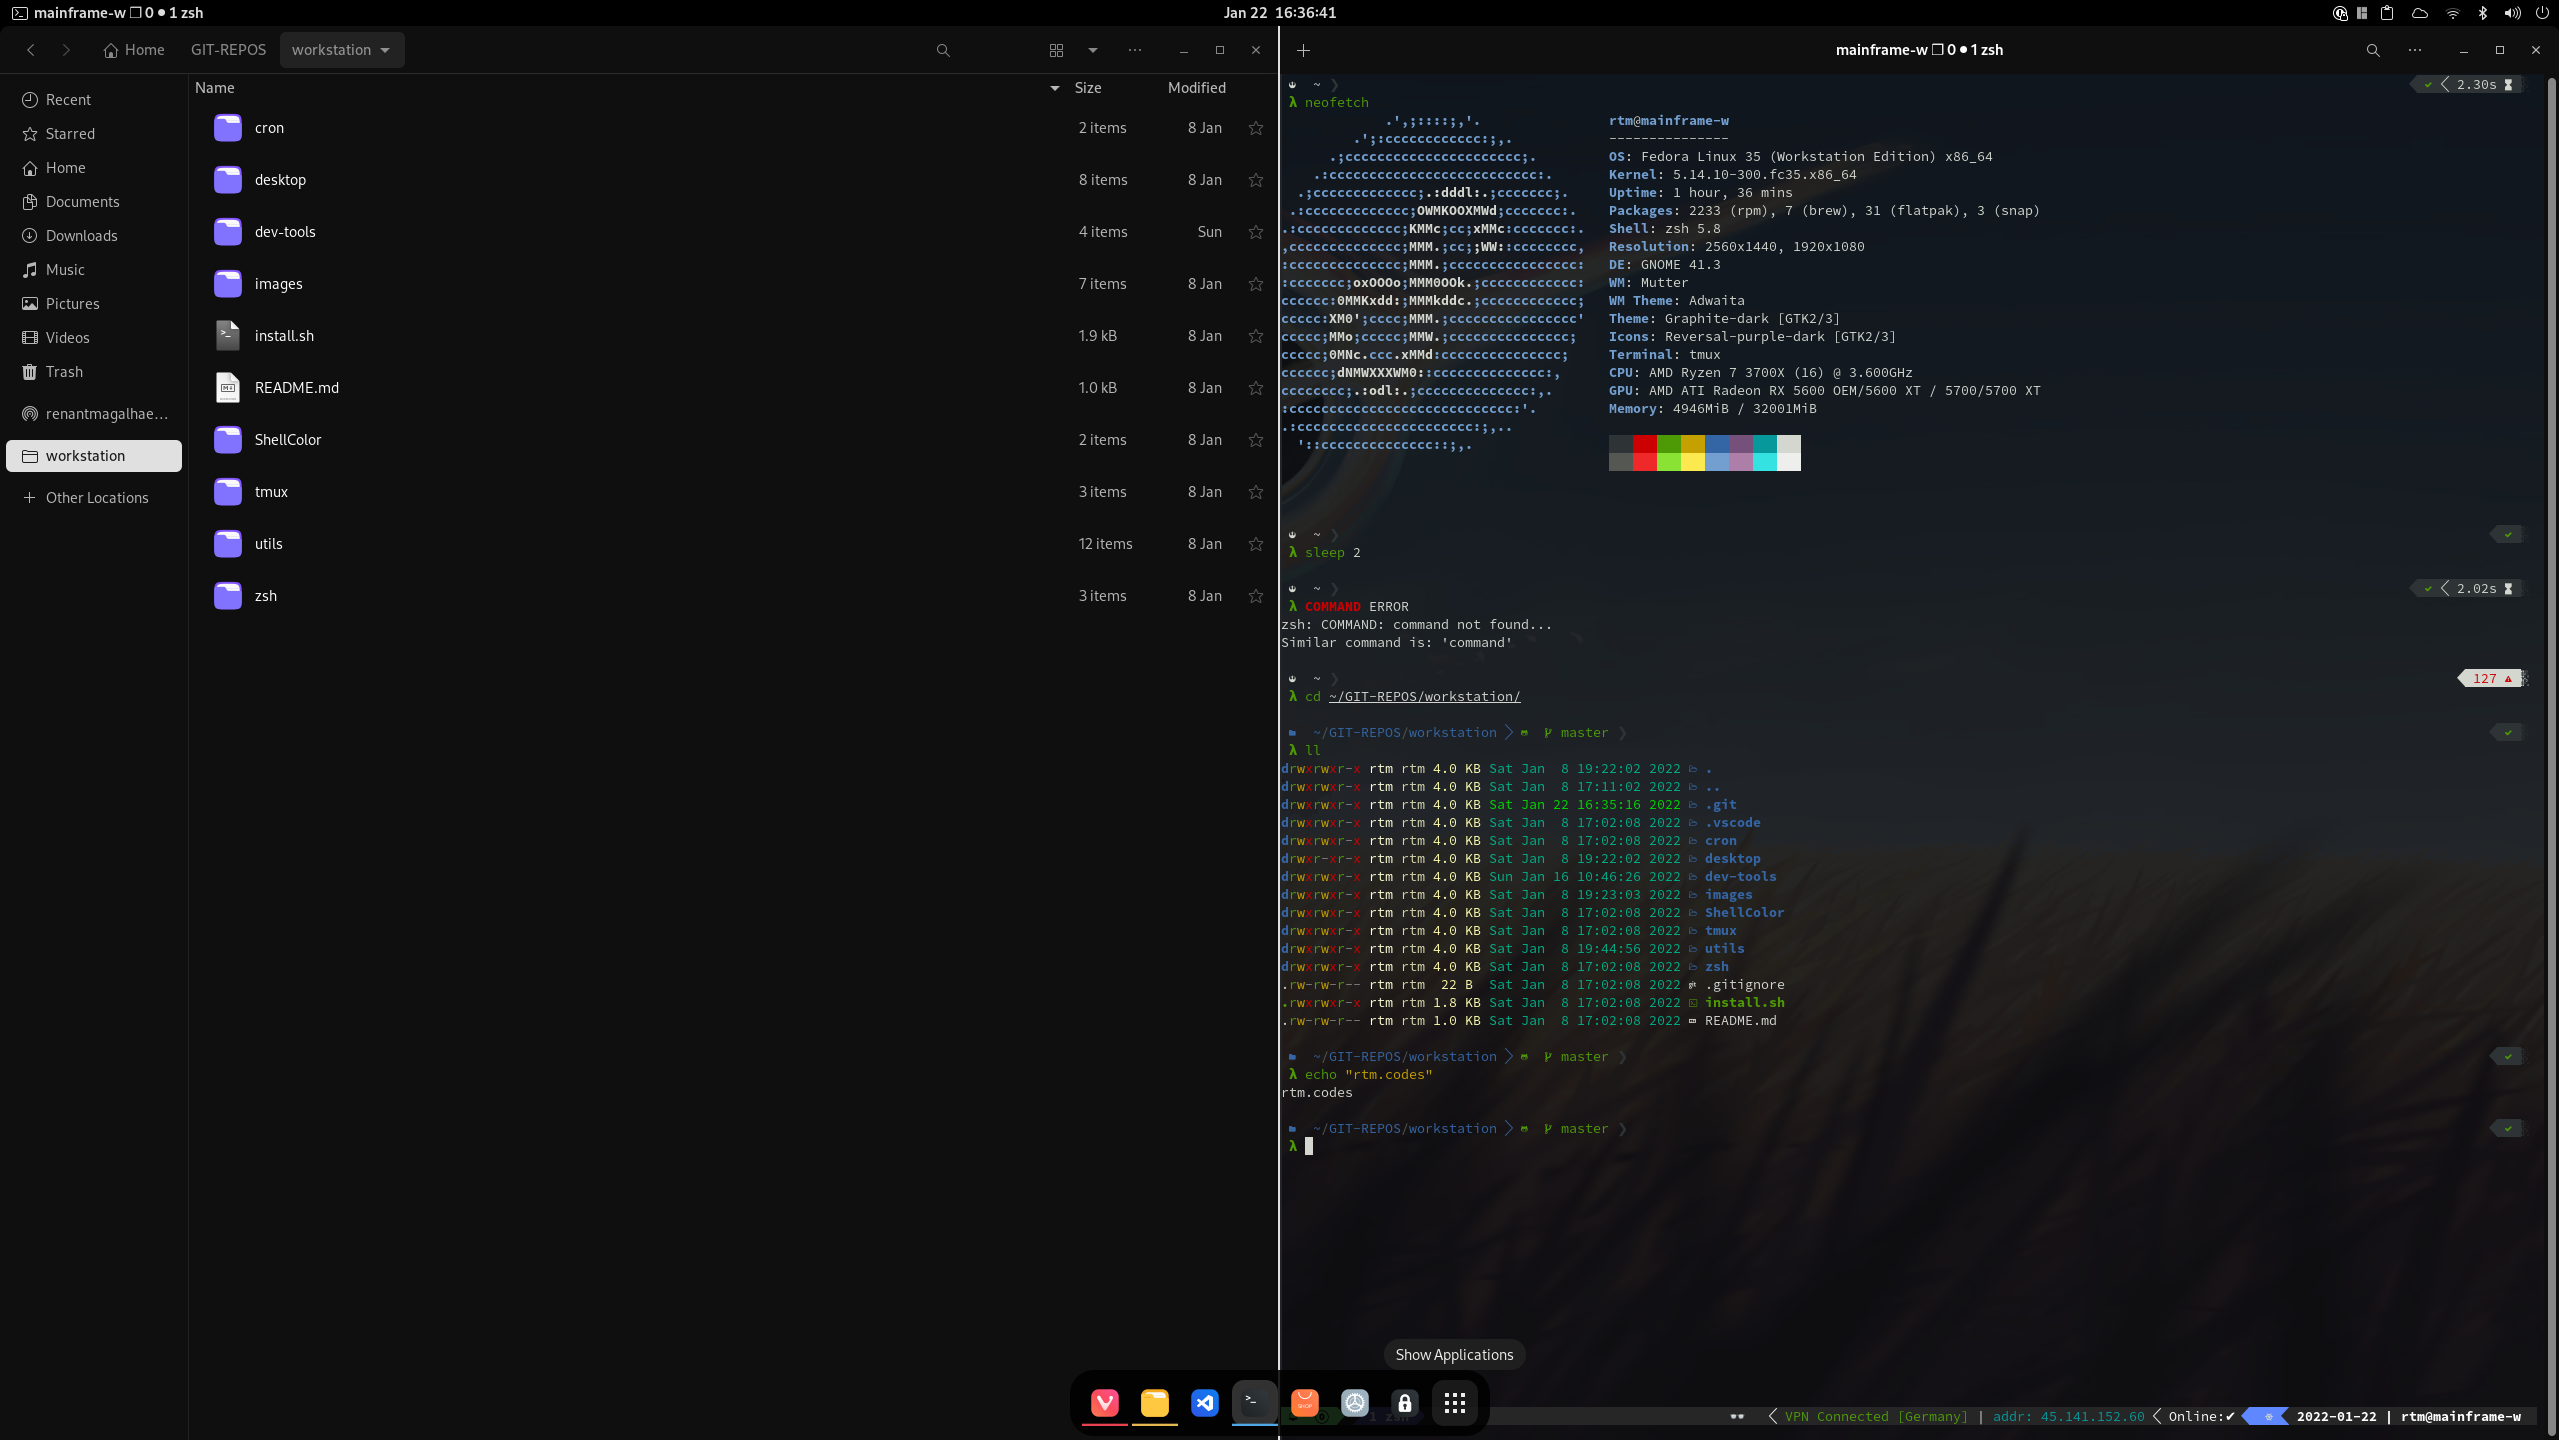
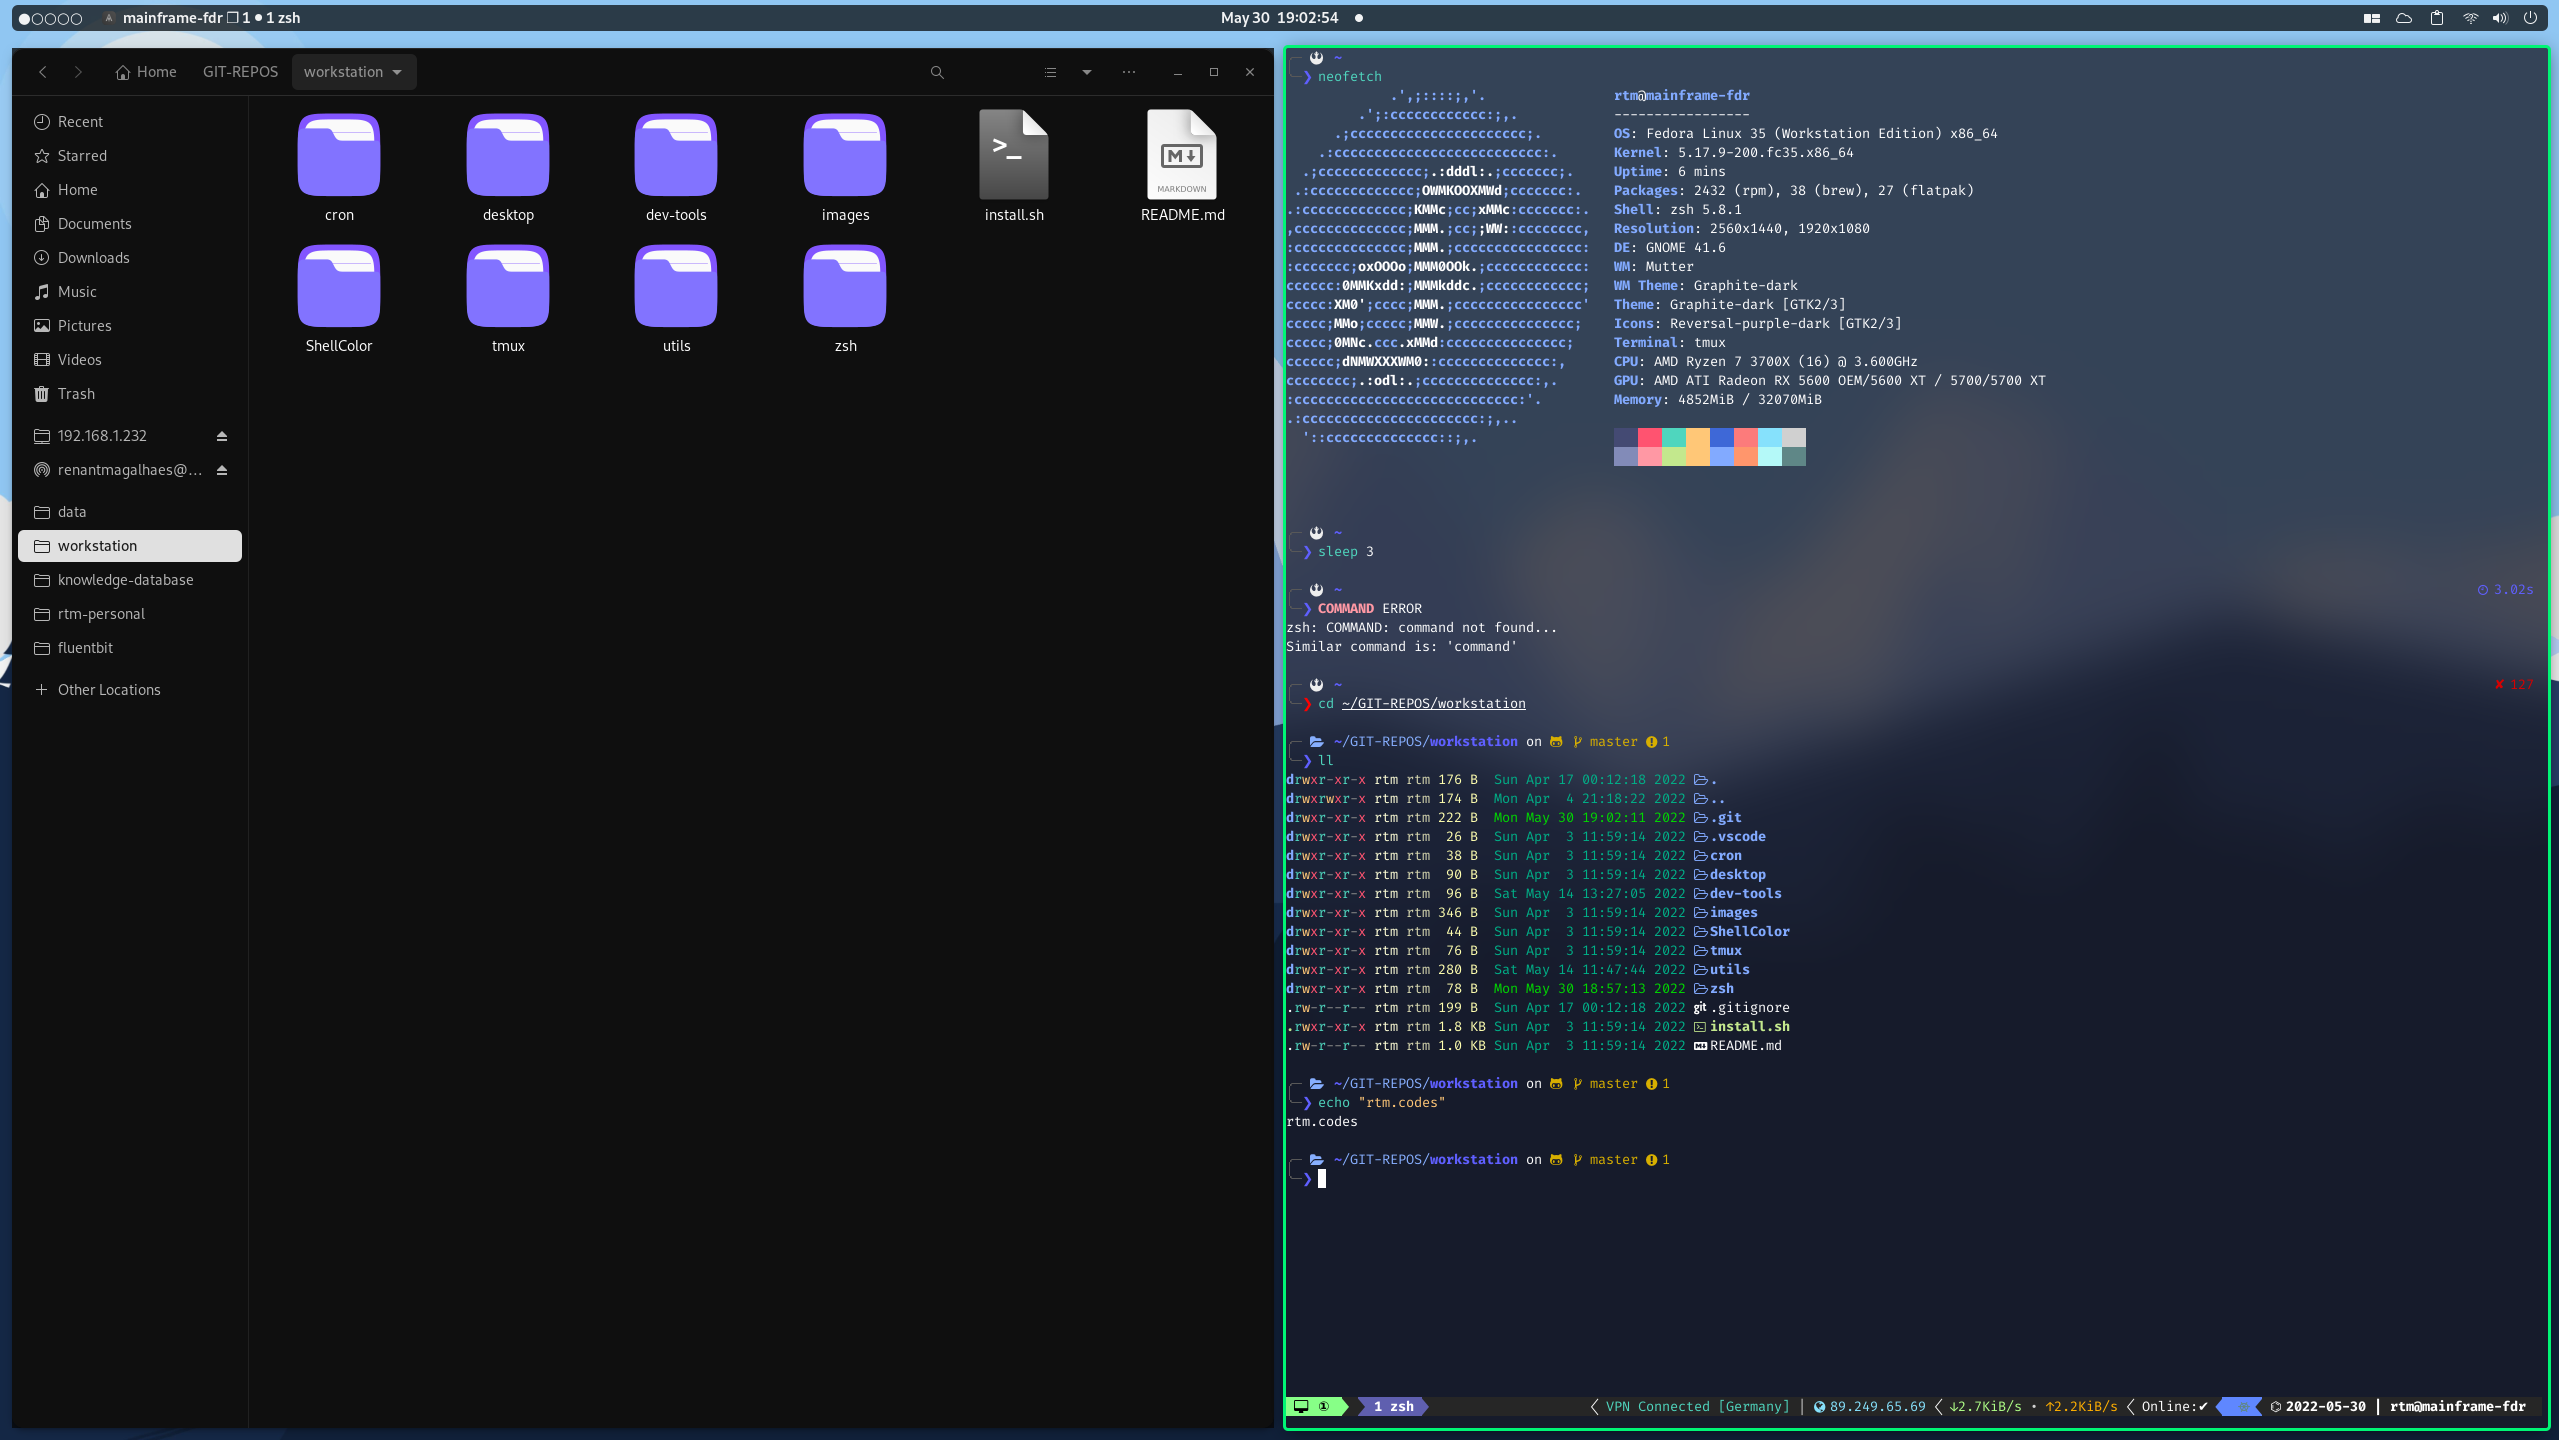
new gnome layout

diff --git a/README.md b/README.md
@@ -12,7 +12,7 @@ Use the script ``install.sh``. Running the scripts directly may result in system
 
 ![3-Tiling_window-kde.png](https://raw.githubusercontent.com/renantmagalhaes/workstation/master/images/3-Tiling_window-kde.png) 
 
-# GNOME Version 4X.X
+# GNOME Version 41.X
 ![1-general_layout-gnome.png](https://raw.githubusercontent.com/renantmagalhaes/workstation/master/images/1-general_layout-gnome.png)
 
 ![2-terminal_and_file-manager-gnome.png](https://raw.githubusercontent.com/renantmagalhaes/workstation/master/images/2-terminal_and_file-manager-gnome.png)
